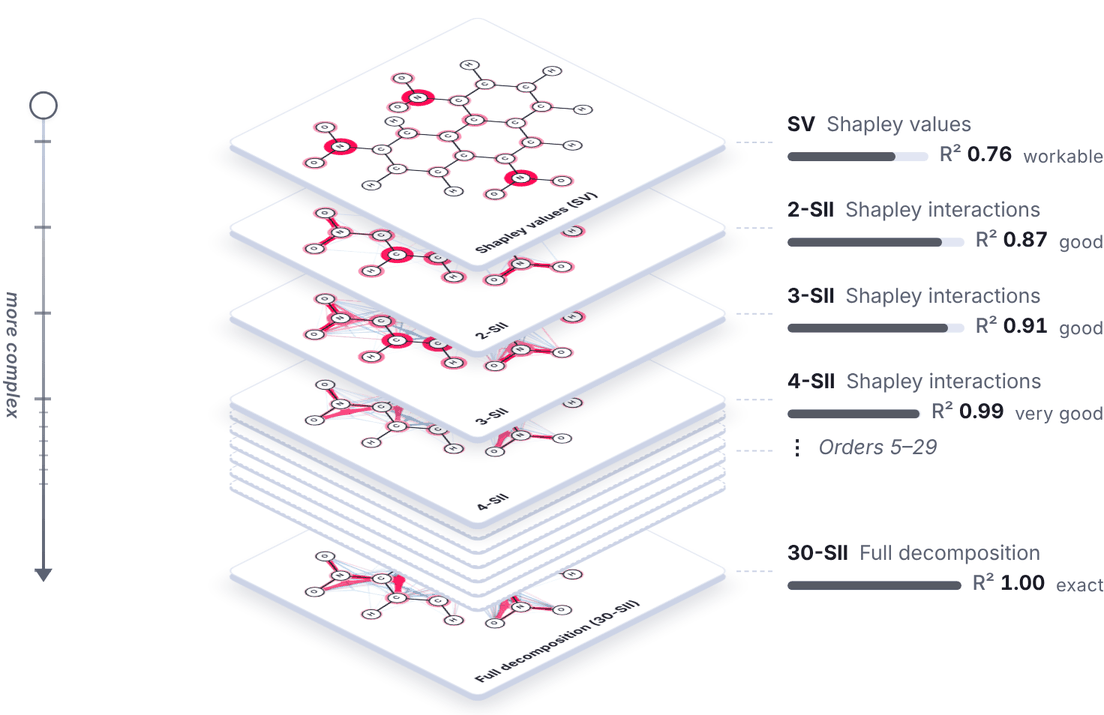
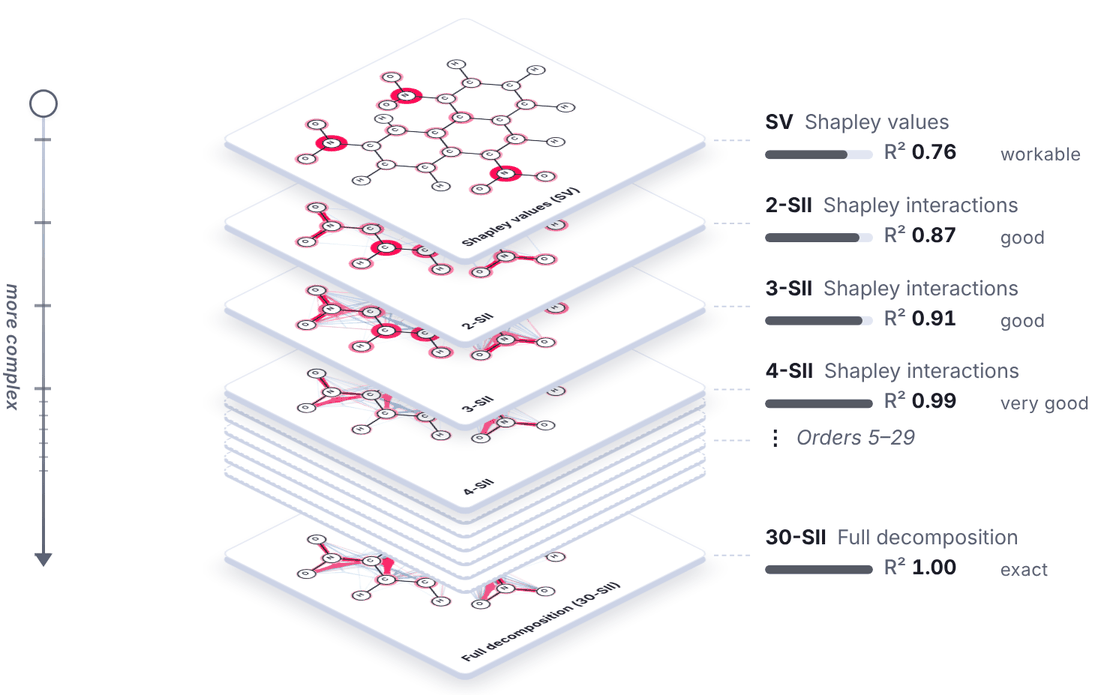
Orders demo: bars of one width; the faithfulness plot with labeled axes
Every row of the ladder gives its bar, its R² and its verdict the same
width, so that the bars line up and are as long in every row and every
example ("very good" no longer takes room from its bar); the ladder is a
little wider for it. On narrow screens, without verdicts, the bars share
what is left.

The plot is titled "Faithfulness by order", with its axes labeled:
"order of interaction" under the orders and "faithfulness (R²)" along
the side. The arrow "more complex" runs under the axis's label, and "full
decomposition" names the last point above it.

Claude-Session: https://claude.ai/code/session_019qiuyEoqTxUYBXqUZ7PZqM

diff --git a/docs/source/demos/orders/assets/demo.js b/docs/source/demos/orders/assets/demo.js
@@ -69,7 +69,7 @@
   const RAIL_LINE = 28;
   const RAIL_REST = 24;
   const THICKNESS = 4; // pixels: the sheets' edge, below their face
-  const PLOT = { height: 176, left: 42, right: 14, top: 14, bottom: 40 }; // pixels
+  const PLOT = { height: 196, left: 58, right: 14, top: 24, bottom: 54 }; // pixels
 
   const roundTo = (value, digits) => Number(value.toFixed(digits));
   const el = (tag, className, text) => {
@@ -572,7 +572,7 @@
 
     const footer = el("div", "orders-demo-footer");
     const plotBox = el("figure", "orders-demo-plot");
-    const plotTitle = el("figcaption", "orders-demo-plot-title", "Fit to the model (R²) by order");
+    const plotTitle = el("figcaption", "orders-demo-plot-title", "Faithfulness by order");
     const plot = document.createElementNS(SVG, "svg");
     plot.setAttribute("class", "orders-demo-plot-svg");
     plot.setAttribute("role", "img");
@@ -600,7 +600,8 @@
       const width = stage.clientWidth;
       const narrow = width < 560;
       const slide = root.dataset.lift !== "lift";
-      const ladderWidth = narrow ? Math.max(92, width * 0.3) : Math.min(240, width * 0.3);
+      // the rows of the ladder: on wide screens, room for a bar, the R^2 and the verdict, all as wide
+      const ladderWidth = narrow ? Math.max(92, width * 0.3) : Math.min(256, width * 0.32);
       const gap = narrow ? 8 : 28;
       const spread = Math.abs(Math.cos(TURN)) + Math.abs(Math.sin(TURN));
       const room = width - ladderWidth - gap - RAIL;
@@ -1008,16 +1009,16 @@
           String(order),
         );
       }
-      const first = add(plot, "text", { class: "orders-demo-plot-axis", x: x0, y: h - 6 }, "order");
-      const last = add(plot, "text", { class: "orders-demo-plot-axis", x: x1 + 6, y: h - 6, "text-anchor": "end" }, "full decomposition");
-      // between them, an arrow: every order to the right is more complex
-      const [from, to] = [x0 + first.getComputedTextLength() + 10, x1 + 6 - last.getComputedTextLength() - 10];
-      if (to - from > 100) {
-        const arrow = add(plot, "g", { class: "orders-demo-plot-complexity" });
-        const f = (value) => roundTo(value, 1);
-        add(arrow, "path", { d: `M${f(from)},${h - 6}H${f(to)}M${f(to - 5)},${h - 9.5}L${f(to)},${h - 6}L${f(to - 5)},${h - 2.5}` });
-        add(arrow, "text", { class: "orders-demo-plot-axis", x: f((from + to) / 2), y: h - 6, "text-anchor": "middle" }, "more complex");
-      }
+      // the axes' labels: the order under the axis, the faithfulness along it, turned
+      const f = (value) => roundTo(value, 1);
+      add(plot, "text", { class: "orders-demo-plot-label", x: f((x0 + x1) / 2), y: y0 + 31, "text-anchor": "middle" }, "order of interaction");
+      const middle = f((y0 + y1) / 2);
+      add(plot, "text", { class: "orders-demo-plot-label", x: 12, y: middle, "text-anchor": "middle", transform: `rotate(-90 12 ${middle})` }, "faithfulness (R²)");
+      // under it, an arrow along the axis: every order to the right is more complex
+      const arrowY = h - 6;
+      const arrow = add(plot, "g", { class: "orders-demo-plot-complexity" });
+      add(arrow, "path", { d: `M${f(x0)},${arrowY}H${f(x1)}M${f(x1 - 5)},${arrowY - 3.5}L${f(x1)},${arrowY}L${f(x1 - 5)},${arrowY + 3.5}` });
+      add(arrow, "text", { class: "orders-demo-plot-axis", x: f((x0 + x1) / 2), y: arrowY, "text-anchor": "middle" }, "more complex");
 
       const points = fits.map(([order, r2]) => `${roundTo(x(order), 1)},${roundTo(y(r2), 1)}`);
       add(plot, "path", { class: "orders-demo-plot-area", d: `M${roundTo(x0, 1)},${y0}L${points.join("L")}L${roundTo(x1, 1)},${y0}Z` });
@@ -1041,6 +1042,9 @@
           "data-order": order,
         });
       }
+
+      // the last order is the full decomposition: a note above its point
+      add(plot, "text", { class: "orders-demo-plot-axis", x: f(x(n) + 4), y: f(y(fits.at(-1)[1]) - 15), "text-anchor": "end" }, "full decomposition");
 
       // the marker: a guide down to the axis and a ring on the line, with the order's R^2
       const guide = add(plot, "g", { class: "orders-demo-plot-guide" });

diff --git a/docs/source/demos/orders/assets/demo.css b/docs/source/demos/orders/assets/demo.css
@@ -639,11 +639,11 @@ body[data-theme="dark"] .orders-demo {
   font-variant-numeric: tabular-nums;
 }
 
+/* the bar, the R^2 and the verdict as wide in every row, so that the bars line up and match */
 .orders-demo-meter {
   position: relative;
-  flex: 1 1 auto;
-  min-width: 3rem;
-  max-width: 7.5rem;
+  flex: none;
+  width: 4.5rem;
   height: 0.4rem;
   overflow: hidden;
   border-radius: 999px;
@@ -660,6 +660,7 @@ body[data-theme="dark"] .orders-demo {
 }
 
 .orders-demo-r2 {
+  min-width: 4.4rem;
   color: var(--orders-ink);
   font-weight: 700;
 }
@@ -671,6 +672,7 @@ body[data-theme="dark"] .orders-demo {
 }
 
 .orders-demo-verdict {
+  min-width: 3.7rem;
   font-size: 0.75rem;
   letter-spacing: 0.02em;
   white-space: nowrap;
@@ -741,7 +743,13 @@ body[data-theme="dark"] .orders-demo {
 }
 
 .orders-demo-narrow .orders-demo-meter {
+  flex: 1 1 auto;
+  width: auto;
   min-width: 1.5rem;
+}
+
+.orders-demo-narrow .orders-demo-r2 {
+  min-width: 2.9rem;
 }
 
 /* -- below the stack: the plot of the fit by order ---------------------------------------------- */
@@ -791,6 +799,14 @@ body[data-theme="dark"] .orders-demo {
 .orders-demo-plot-axis {
   font-size: 10.5px;
   font-style: italic;
+}
+
+/* the axes' labels: the order under the axis, the faithfulness along it */
+.orders-demo-plot-label {
+  fill: var(--orders-ink);
+  font-size: 11px;
+  font-weight: 600;
+  dominant-baseline: central;
 }
 
 /* along the axis, an arrow: every order to the right is more complex (its label over the line) */
